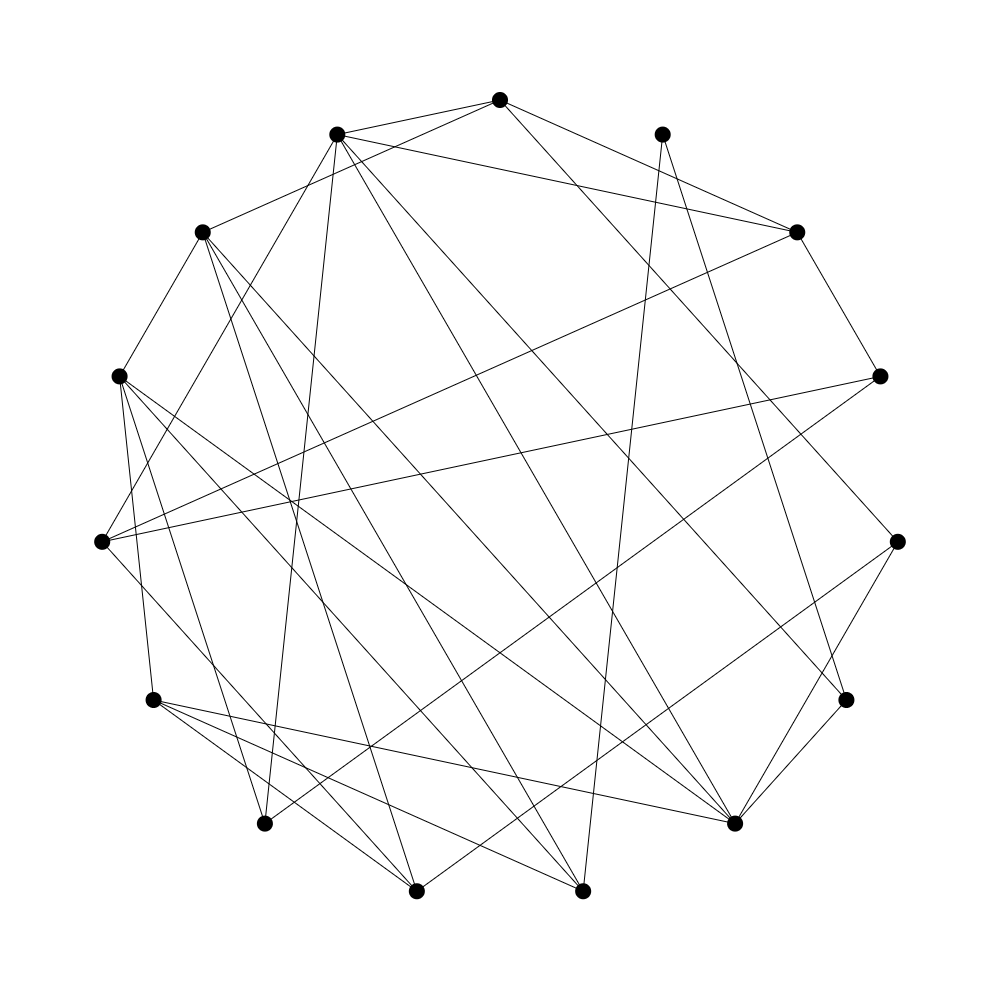
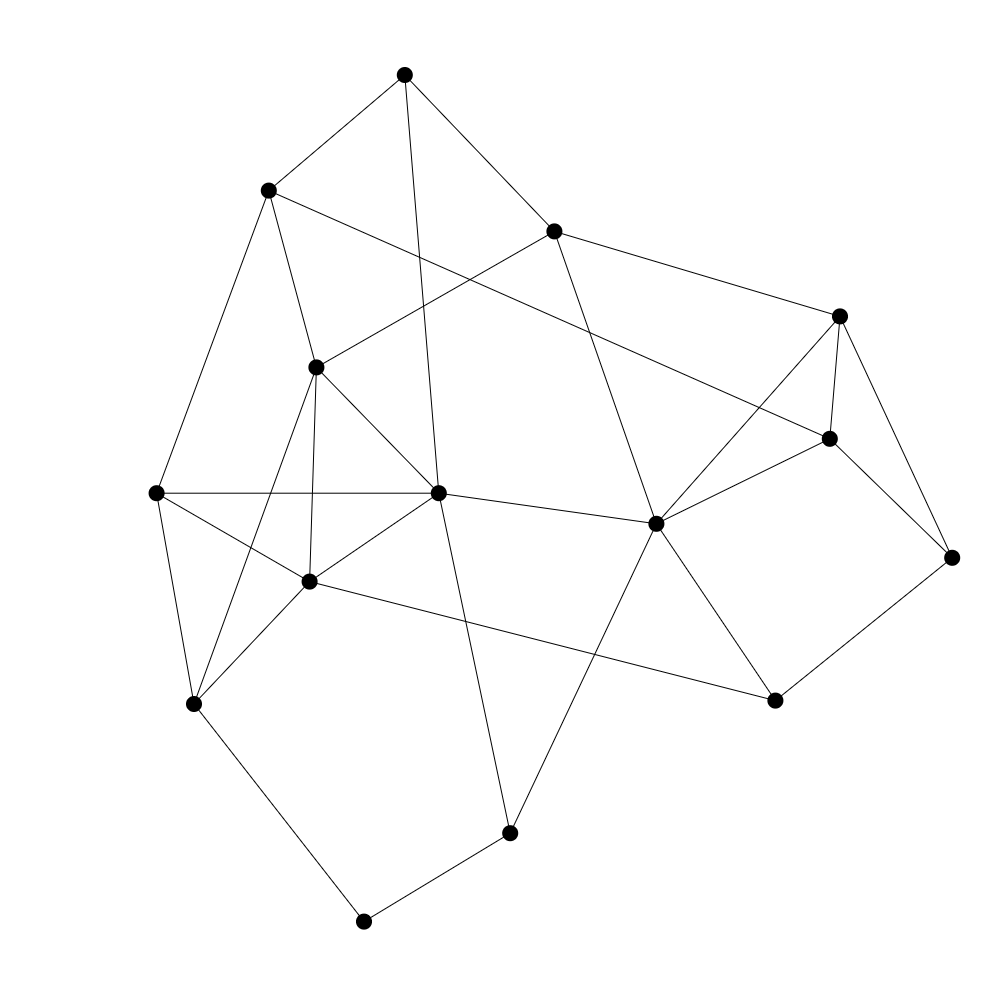
Updating random graph layout

diff --git a/web/js/graphs_and_walks.js b/web/js/graphs_and_walks.js
@@ -141,22 +141,22 @@ function fixed_random_graph() {
     this.name = "fixed_random_graph_0";
     this.nodes = range(15);
     this.edges = [
-        [14, 3, 2],
-        [3, 13, 14, 4, 2, 8],
-        [3, 4, 1, 0],
-        [2, 1, 6, 0],
-        [2, 5, 1, 7],
-        [8, 4, 6],
-        [3, 9, 7, 5],
-        [10, 11, 6, 8, 4],
-        [5, 10, 13, 7, 1, 9],
-        [6, 10, 11, 8],
-        [8, 11, 14, 9, 7],
-        [10, 12, 7, 9],
-        [13, 11],
-        [1, 12, 8],
-        [1, 10, 0]
-    ]; 
+        [3, 11, 13, 14],
+        [2, 14, 5, 13],
+        [3, 1, 5, 4],
+        [2, 5, 0, 4],
+        [6, 3, 2],
+        [3, 7, 6, 1, 2, 12],
+        [5, 9, 4],
+        [5, 8, 12],
+        [7, 10],
+        [12, 10, 6, 11, 13],
+        [9, 8, 13, 11],
+        [0, 9, 10, 12],
+        [14, 9, 7, 13, 5, 11],
+        [9, 10, 0, 12, 1],
+        [12, 1, 0]
+    ];
 }
 
 // Visualizing graphs -- arguments are a canvas 2d context, a graph, and
@@ -184,15 +184,50 @@ function get_three_rooms_coords(cent_x, cent_y, radius) {
     return coords;
 }
 
-function draw_graph(draw, graph, cent_x, cent_y, radius) {
-    var num_nodes = graph.nodes.length;
-    var nodes = [];
+function get_fixed_random_coords(cent_x, cent_y, radius) {
+    var coords = [
+        [-0.68, -0.91],
+        [ 0.16, -0.79],
+        [ 1.00, -0.54],
+        [ 0.97, -0.18],
+        [ 1.33,  0.17],
+        [ 0.46,  0.07],
+        [ 0.81,  0.59],
+        [ 0.03,  0.98],
+        [-0.40,  1.24],
+        [-0.56,  0.24],
+        [-0.90,  0.60],
+        [-1.01, -0.02],
+        [-0.18, -0.02],
+        [-0.54, -0.39],
+        [-0.28, -1.25]
+    ];
+    
+    // Adjustments
+    radius = 0.85 * radius;
+    for (var i=0; i < coords.length; i++) {
+        coords[i][0] = cent_x + radius * coords[i][0];
+        coords[i][1] = cent_y + radius * coords[i][1];
+    }
+    return coords;
+}
+
+function get_graph_coords(graph_name, cent_x, cent_y, radius) {
     var coords;
-    if (graph.name === 'three_rooms') {
+    if (graph_name === 'three_rooms') {
         coords = get_three_rooms_coords(cent_x, cent_y, radius);
+    } else if (graph_name === 'fixed_random_graph_0') {
+        coords = get_fixed_random_coords(cent_x, cent_y, radius);
     } else {
         coords = get_polygon_coords(num_nodes, cent_x, cent_y, radius);
     }
+    return coords;
+}
+
+function draw_graph(draw, graph, cent_x, cent_y, radius) {
+    var num_nodes = graph.nodes.length;
+    var nodes = [];
+    var coords = get_graph_coords(graph.name, cent_x, cent_y, radius);
 
     //aesthetics 
     var node_r = 8;
